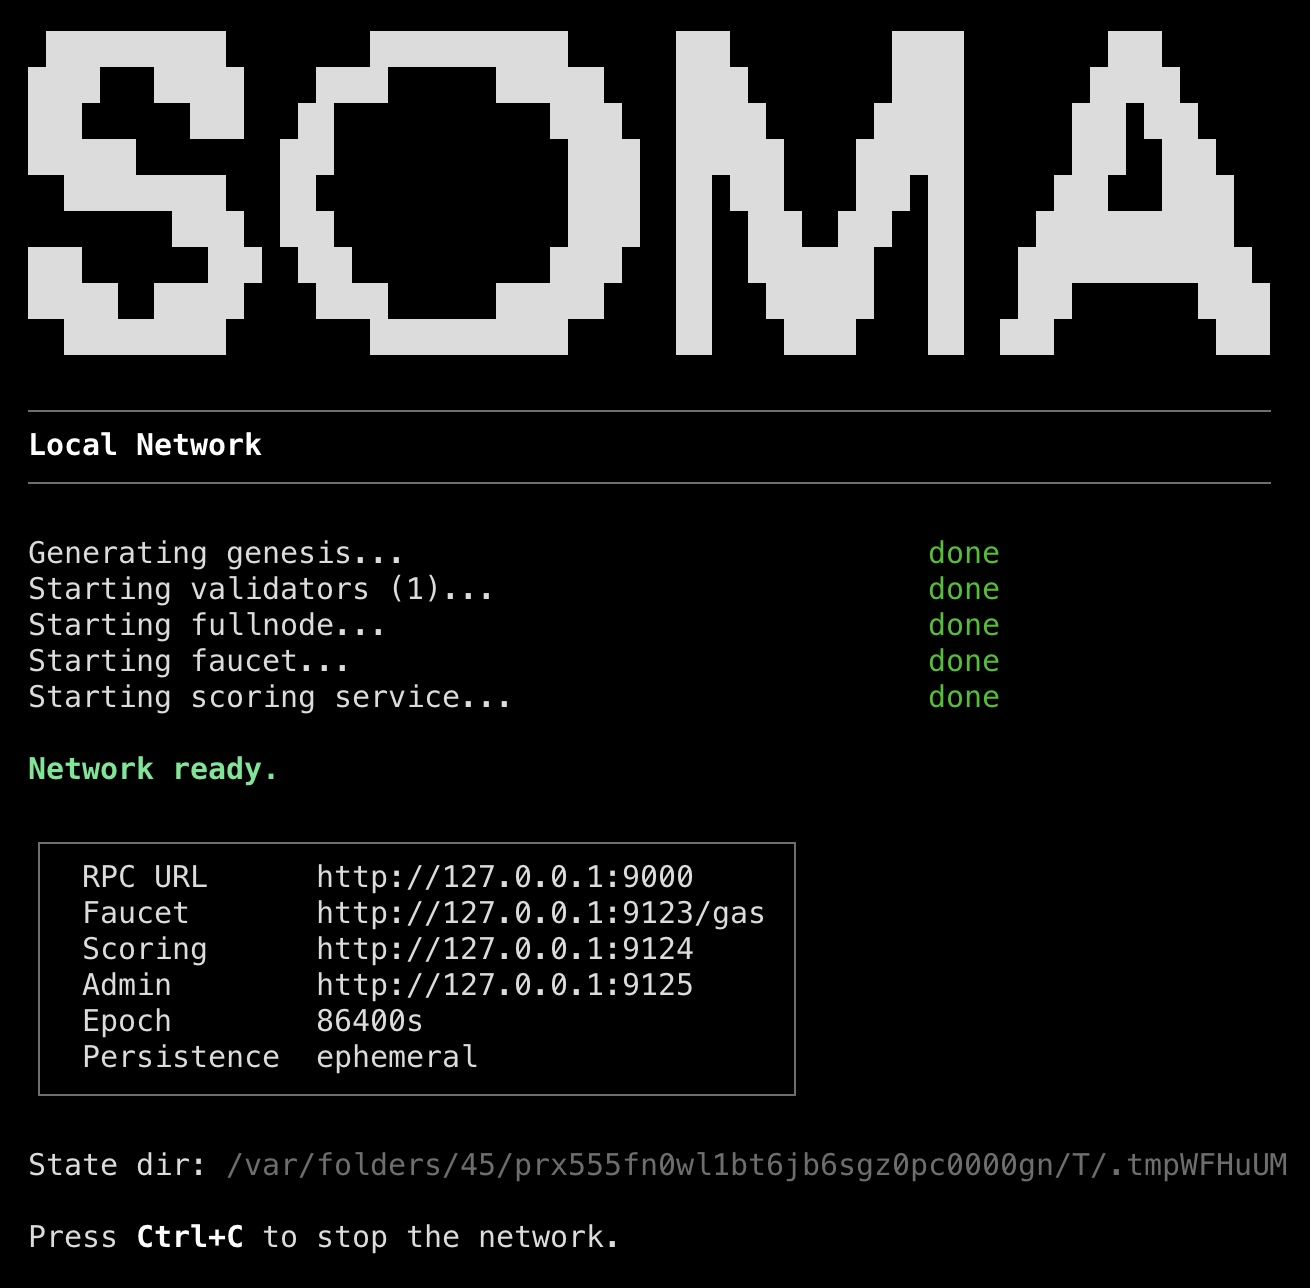
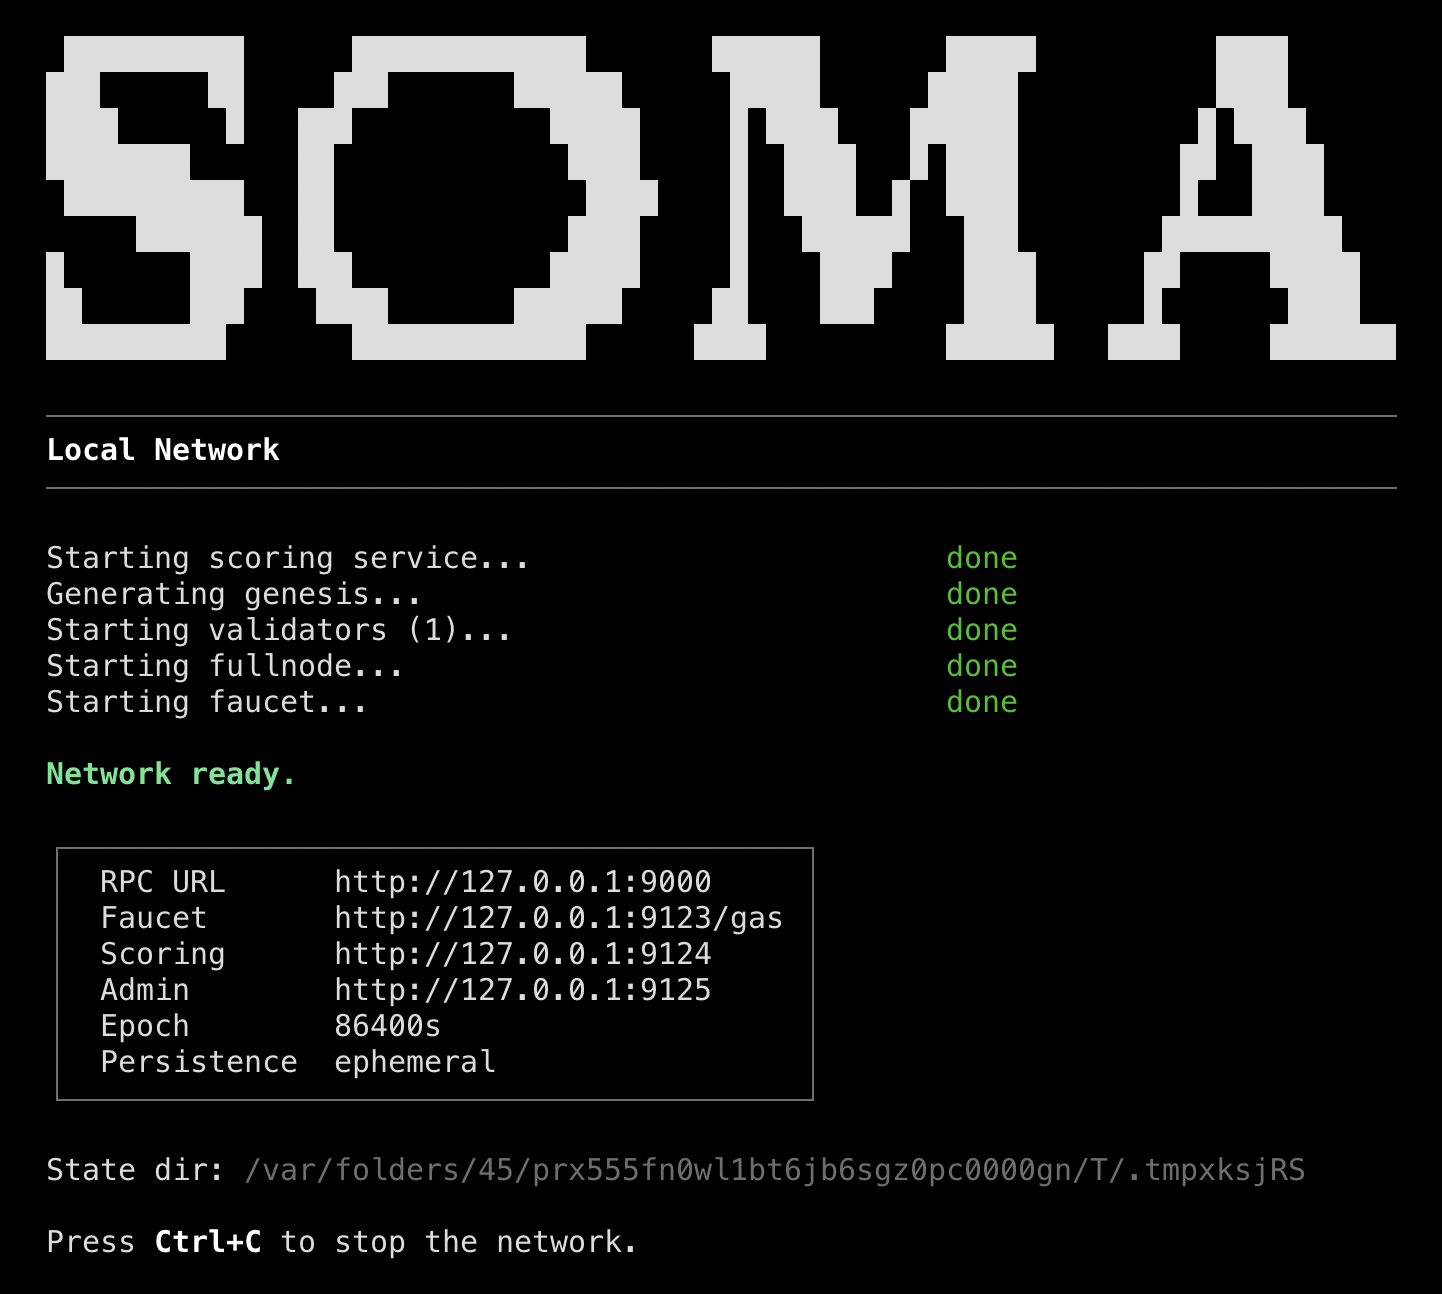
[fix] Fixed failing msim test and adjusted README.

diff --git a/cli/src/soma_commands.rs b/cli/src/soma_commands.rs
@@ -66,15 +66,15 @@ use crate::commands;
 const DEFAULT_EPOCH_DURATION_MS: u64 = 86_400_000; // 24 hours; use admin endpoint to advance
 
 pub(crate) const SOMA_BANNER: &str =
-    "   ██████████        ███████████      ███         ████        ███
-  ████   █████    ████      ██████    ████        ████       █████
-  ███      ███   ██            ████   █████      █████      ███ ███
-  ██████        ███             ████  ██████    ██████      ███  ███
-    █████████   ██              ████  ██ ███    ███ ██     ███   ████
-          ████  ███             ████  ██  ███  ███  ██    ███████████
-  ███       ███  ███           ████   ██  ███████   ██   █████████████
-  █████  █████    ████      ██████    ██   ██████   ██   ███       ████
-    █████████        ███████████      ██    ████    ██  ███         ███";
+    "   ██████████      █████████████       ██████       █████          ████      
+  ███      ██     ███       ██████      █████      █████           ████      
+  ████      █   ███           █████     █ ████    ██████          █ ████     
+  ████████      ██             ████     █  ████   █ ████         ██  ████    
+   ██████████   ██              ████    █  ████  █  ████         █   ████    
+       ███████  ██             ████     █   ██████   ███        ██████████   
+  █       ████  ███           █████     █    ████    ████      ██     █████  
+  ██      ███    ████       ██████     ██    ███     ████      █       ████  
+  ██████████       █████████████      ████          ██████   ████     ███████";
 
 /// Print the SOMA ASCII banner with a subtitle line underneath.
 pub(crate) fn print_banner(subtitle: &str) {

diff --git a/e2e-tests/tests/shared_object_tests.rs b/e2e-tests/tests/shared_object_tests.rs
@@ -1231,11 +1231,8 @@ async fn test_concurrent_conflicting_owned_transactions() {
     let recipient_b = addresses[2];
 
     // Get three coins: one contested coin + separate gas for each tx
-    let coins = test_cluster
-        .wallet
-        .get_gas_objects_owned_by_address(sender, Some(3))
-        .await
-        .unwrap();
+    let coins =
+        test_cluster.wallet.get_gas_objects_owned_by_address(sender, Some(3)).await.unwrap();
     assert!(coins.len() >= 3, "Sender needs at least 3 coins");
     let coin_ref = coins[0];
     let gas_ref1 = coins[1];
